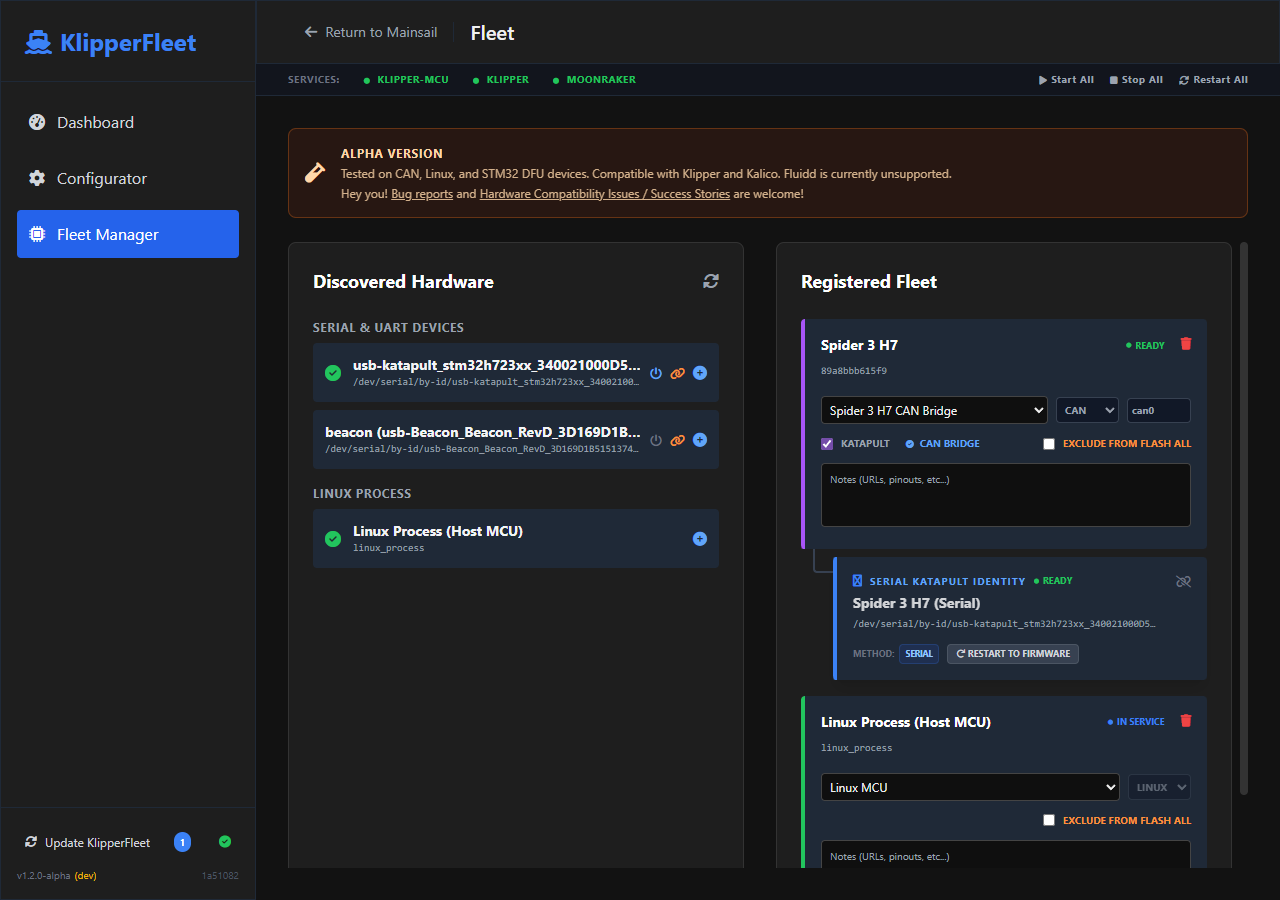
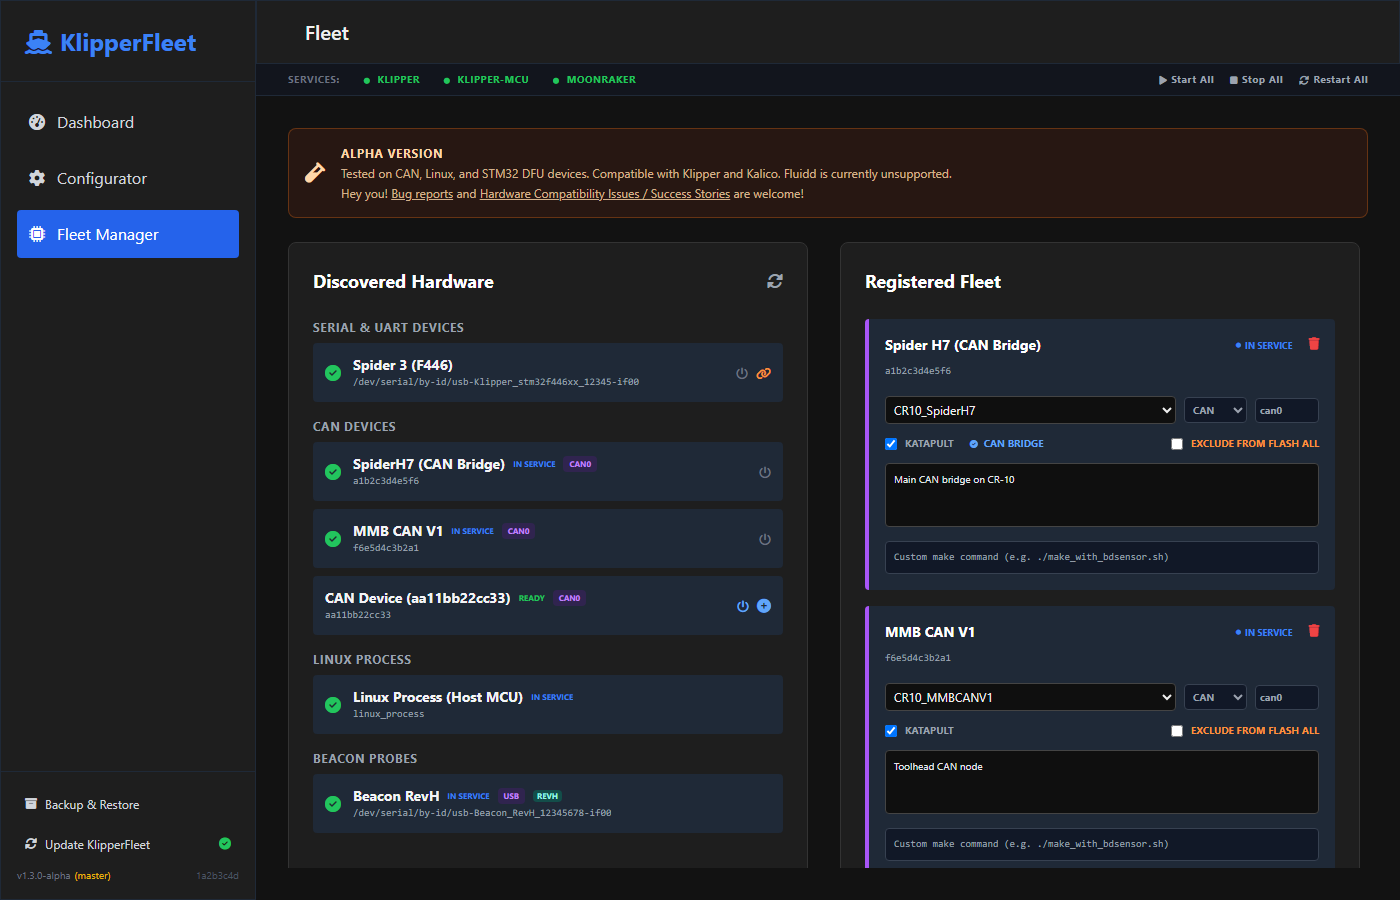
feat: add backup and restore functionality with UI integration

diff --git a/README.md b/README.md
@@ -17,6 +17,7 @@ KlipperFleet is a web interface (integrated into Mainsail) for configuring, buil
 - **Auto Reboot**: Detects Klipper vs. Katapult/DFU mode and reboots devices into the correct bootloader automatically.
 - **Service Management**: Stops/starts Klipper and Moonraker services during flash operations.
 - **Integrated Flashing**: Flash via Serial, CAN, or DFU from the browser with real-time log streaming.
+- **Backup & Restore**: Export your fleet registry and profiles as a ZIP, or import a previous backup to restore after a fresh install.
 - **Mainsail Integration**: Native look and feel within the Mainsail ecosystem.
 
 ## Tested Hardware
@@ -49,6 +50,9 @@ KlipperFleet is a web interface (integrated into Mainsail) for configuring, buil
 
 ### Fleet Manager
 ![Fleet Manager](images/fleet_manager.png)
+
+### Backup & Restore
+![Backup & Restore](images/backup_restore.png)
 
 ## Prerequisites
 
@@ -140,6 +144,18 @@ The installer auto-configures `.theme/navi.json`. If the entry is missing, add i
 ### Data Directory
 
 Stored in `~/printer_data/config/klipperfleet/`: `profiles/` (Kconfig files), `artifacts/` (compiled firmware), `fleet.json` (device registry).
+
+## Backup & Restore
+
+KlipperFleet includes a built-in backup system accessible from the sidebar. Use it to export your fleet registry and all Kconfig profiles as a timestamped ZIP archive, or import a previous backup to restore after a fresh install.
+
+- **Export**: Downloads a ZIP containing `fleet.json`, all profiles, and metadata (version + date).
+- **Import**: Upload a previously exported ZIP to restore your fleet and profiles in one click.
+
+After restoring on a new system, rebuild firmware from the Dashboard to regenerate binary artifacts.
+
+> [!NOTE]
+> CAN UUIDs are hardware-specific and carry over automatically. Serial paths (`/dev/serial/by-id/...`) are stable across OS reinstalls as long as the same USB ports and boards are used. If you change USB ports, update the serial paths in the Fleet Manager.
 
 ## Roadmap
 